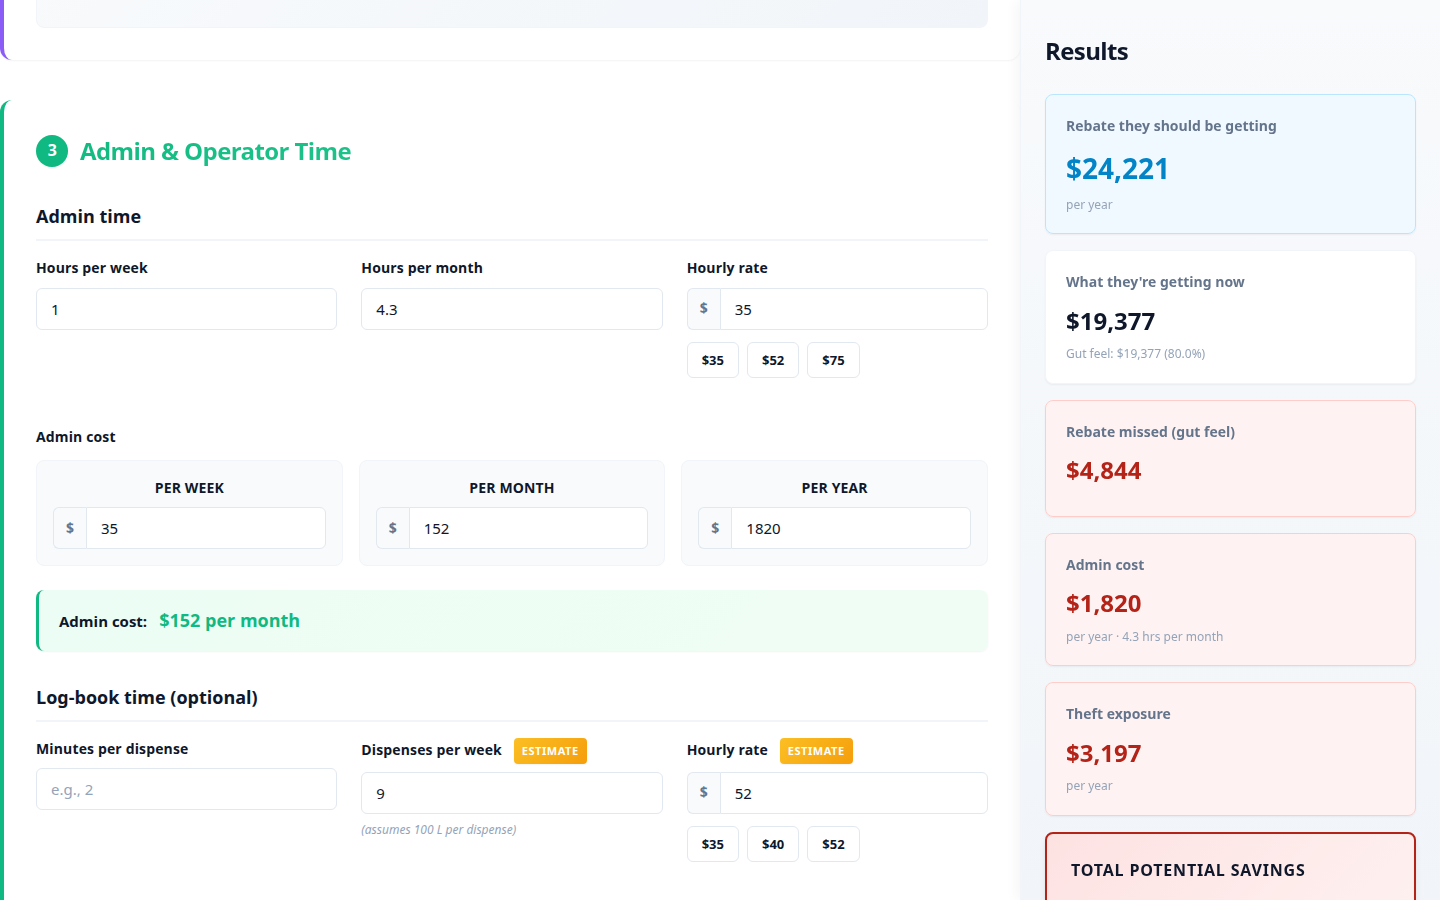
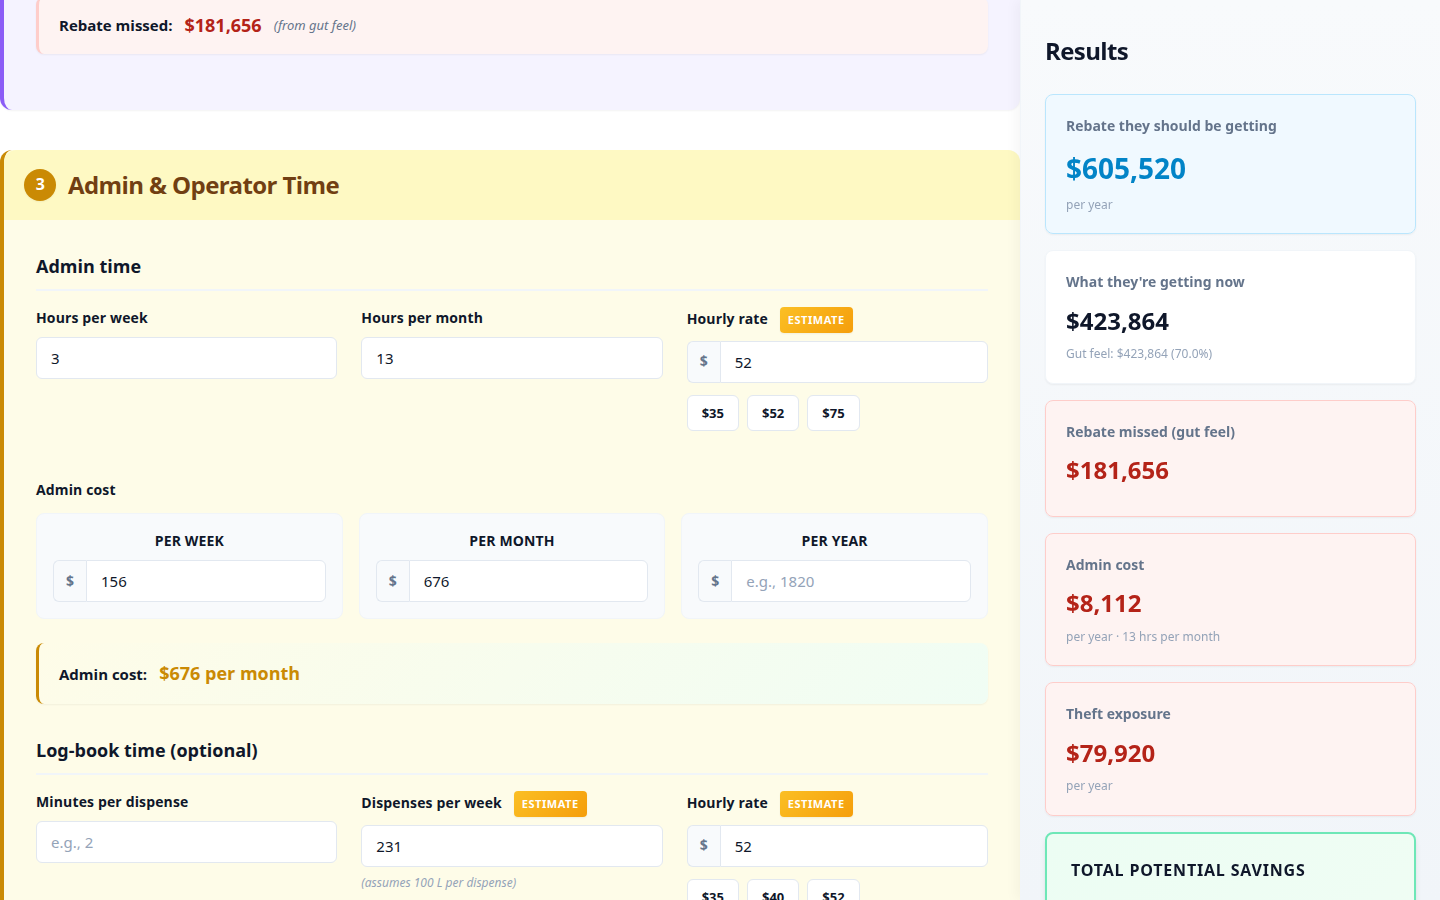
Fix rebate missed display and thousands separators on linked fields (v1.2.7)
Critical bug fixes:

Bug 1: Rebate missed line not showing
- Fixed calculateRebateMissed() calls to include correct 3-parameter signature
- Was calling: calculateRebateMissed(rebate, state.actualDollars)
- Now calling: calculateRebateMissed(rebate, 'dollars', state.actualDollars)
- Rebate missed now properly displays under 'Rebate they should be getting'
- Shows actual claim if filled, otherwise gut feel
- Labels source: '(from actual claim)' or '(from gut feel)'
- Renders in soft red (#B42318 on #FEF3F2)

Bug 2: Thousands separators missing on programmatically filled fields
- Added setFormattedValue(input, value) helper function
- Formats integer fields with commas when not focused
- If field is currently focused (user typing), shows raw digits
- Otherwise formats with commas via formatNumberInput()
- Applied to all linked field updates:
  * Fuel litres/dollars (week, month, year) - updateFuelFieldsFromAnnual()
  * Rebate claim dollars (from %) - actualPercent/gutfeelPercent handlers
  * Admin $ fields (week, month, year) - all three input handlers + updateAdminDollarsFromHours()
- Every integer field now shows commas whenever not focused, including
  when value is set by another field's linkage or by defaults

Code changes:
- app.js: Added setFormattedValue() helper before addThousandsSeparator()
- app.js: Replaced all programmatic .value = Math.round(...) with setFormattedValue()
- app.js: Fixed calculateRebateMissed() calls with correct parameters

Verification:
[…]

diff --git a/js/app.js b/js/app.js
@@ -58,6 +58,24 @@ const state = {
 };
 
 /**
+ * Format an integer input field value (add commas if not focused)
+ * @param {HTMLInputElement} input - The input element
+ * @param {number} value - The numeric value to set
+ */
+function setFormattedValue(input, value) {
+  if (value === null || value === undefined || value === '') {
+    input.value = '';
+    return;
+  }
+  // If the field is currently focused, don't format (user is typing)
+  if (document.activeElement === input) {
+    input.value = Math.round(value);
+  } else {
+    input.value = formatNumberInput(value);
+  }
+}
+
+/**
  * Add thousands separator formatting to an input field
  * @param {HTMLInputElement} input - The input element
  * @param {boolean} isInteger - Whether to format as integer (default true)
@@ -200,17 +218,17 @@ function updateFuelFieldsFromAnnual() {
   const litresWeek = convertFuelUsage(state.fuelLitresYear, 'year', 'week');
   const litresMonth = convertFuelUsage(state.fuelLitresYear, 'year', 'month');
   
-  document.getElementById('fuel-litres-week').value = Math.round(litresWeek);
-  document.getElementById('fuel-litres-month').value = Math.round(litresMonth);
-  document.getElementById('fuel-litres-year').value = Math.round(state.fuelLitresYear);
+  setFormattedValue(document.getElementById('fuel-litres-week'), Math.round(litresWeek));
+  setFormattedValue(document.getElementById('fuel-litres-month'), Math.round(litresMonth));
+  setFormattedValue(document.getElementById('fuel-litres-year'), Math.round(state.fuelLitresYear));
   
   const dollarsWeek = litresToDollars(litresWeek, state.dieselPrice);
   const dollarsMonth = litresToDollars(litresMonth, state.dieselPrice);
   const dollarsYear = litresToDollars(state.fuelLitresYear, state.dieselPrice);
   
-  document.getElementById('fuel-dollars-week').value = Math.round(dollarsWeek);
-  document.getElementById('fuel-dollars-month').value = Math.round(dollarsMonth);
-  document.getElementById('fuel-dollars-year').value = Math.round(dollarsYear);
+  setFormattedValue(document.getElementById('fuel-dollars-week'), Math.round(dollarsWeek));
+  setFormattedValue(document.getElementById('fuel-dollars-month'), Math.round(dollarsMonth));
+  setFormattedValue(document.getElementById('fuel-dollars-year'), Math.round(dollarsYear));
   
   // Update dispenses default if not modified by user
   if (!state.operatorDispensesModified && state.fuelLitresYear) {
@@ -284,7 +302,7 @@ function setupRebateFields() {
     if (value && state.fuelLitresYear && state.offRoadPercent !== null) {
       const rebateShouldGet = calculateRebateShouldGet(state.fuelLitresYear, state.offRoadPercent);
       state.actualDollars = (value / 100) * rebateShouldGet;
-      actualDollars.value = Math.round(state.actualDollars);
+      setFormattedValue(actualDollars, Math.round(state.actualDollars));
     }
     
     updateAllCalculations();
@@ -315,7 +333,7 @@ function setupRebateFields() {
     if (value && state.fuelLitresYear && state.offRoadPercent !== null) {
       const rebateShouldGet = calculateRebateShouldGet(state.fuelLitresYear, state.offRoadPercent);
       state.gutfeelDollars = (value / 100) * rebateShouldGet;
-      gutfeelDollars.value = Math.round(state.gutfeelDollars);
+      setFormattedValue(gutfeelDollars, Math.round(state.gutfeelDollars));
     }
     
     updateAllCalculations();
@@ -415,8 +433,8 @@ function setupAdminFields() {
       const dollarsYear = value * 52;
       
       // Update other $ fields
-      adminDollarsMonth.value = Math.round(dollarsYear / 12);
-      adminDollarsYear.value = Math.round(dollarsYear);
+      setFormattedValue(adminDollarsMonth, Math.round(dollarsYear / 12));
+      setFormattedValue(adminDollarsYear, Math.round(dollarsYear));
       
       // Back-calculate hours from rate
       if (state.adminRate > 0) {
@@ -441,8 +459,8 @@ function setupAdminFields() {
       const dollarsYear = value * 12;
       
       // Update other $ fields
-      adminDollarsWeek.value = Math.round(dollarsYear / 52);
-      adminDollarsYear.value = Math.round(dollarsYear);
+      setFormattedValue(adminDollarsWeek, Math.round(dollarsYear / 52));
+      setFormattedValue(adminDollarsYear, Math.round(dollarsYear));
       
       // Back-calculate hours from rate
       if (state.adminRate > 0) {
@@ -467,8 +485,8 @@ function setupAdminFields() {
       const dollarsYear = value;
       
       // Update other $ fields
-      adminDollarsWeek.value = Math.round(dollarsYear / 52);
-      adminDollarsMonth.value = Math.round(dollarsYear / 12);
+      setFormattedValue(adminDollarsWeek, Math.round(dollarsYear / 52));
+      setFormattedValue(adminDollarsMonth, Math.round(dollarsYear / 12));
       
       // Back-calculate hours from rate
       if (state.adminRate > 0) {
@@ -494,9 +512,9 @@ function updateAdminDollarsFromHours() {
   const dollarsWeek = dollarsYear / 52;
   const dollarsMonth = dollarsYear / 12;
   
-  document.getElementById('admin-dollars-week').value = Math.round(dollarsWeek);
-  document.getElementById('admin-dollars-month').value = Math.round(dollarsMonth);
-  document.getElementById('admin-dollars-year').value = Math.round(dollarsYear);
+  setFormattedValue(document.getElementById('admin-dollars-week'), Math.round(dollarsWeek));
+  setFormattedValue(document.getElementById('admin-dollars-month'), Math.round(dollarsMonth));
+  setFormattedValue(document.getElementById('admin-dollars-year'), Math.round(dollarsYear));
 }
 
 // Operator fields
@@ -584,14 +602,14 @@ function updateSectionResults() {
     let missedSource = '';
     
     if (state.actualDollars) {
-      rebateMissed = calculateRebateMissed(rebate, state.actualDollars);
+      rebateMissed = calculateRebateMissed(rebate, 'dollars', state.actualDollars);
       missedSource = '(from actual claim)';
     } else if (state.gutfeelDollars) {
-      rebateMissed = calculateRebateMissed(rebate, state.gutfeelDollars);
+      rebateMissed = calculateRebateMissed(rebate, 'dollars', state.gutfeelDollars);
       missedSource = '(from gut feel)';
     }
     
-    if (rebateMissed > 0) {
+    if (rebateMissed > 0 && (state.actualDollars || state.gutfeelDollars)) {
       rebateMissedLine.style.display = 'flex';
       rebateMissedValue.textContent = formatCurrency(rebateMissed);
       rebateMissedSource.textContent = missedSource;

diff --git a/CHANGELOG.md b/CHANGELOG.md
@@ -2,6 +2,29 @@
 
 All notable changes to Fuel Numbers will be documented in this file.
 
+## [1.2.7] - 2026-11-18
+
+### Fixed - Critical Display Bugs
+- **Bug 1: Rebate missed line not displaying**
+  - Fixed calculateRebateMissed() calls to include correct parameters ('dollars' mode)
+  - Rebate missed now properly shows under "Rebate they should be getting"
+  - Displays with actual claim if filled, otherwise gut feel
+  - Shows source label and renders in soft red
+- **Bug 2: Thousands separators missing on linked fields**
+  - Added setFormattedValue() helper to format programmatically filled fields
+  - All linked fields now show commas when not focused:
+    * Fuel litres/dollars fields (week, month, year)
+    * Rebate claim dollars (calculated from %)
+    * Admin $ fields (week, month, year)
+  - Only the field being actively typed shows raw digits
+  - Formatting applies after blur, linking updates, and on page load
+
+### Testing
+- All 7 test cases pass
+- Verified in browser with large numbers (1,200,000 L/yr)
+- Confirmed rebate missed displays correctly
+- Confirmed all linked fields show thousands separators
+
 ## [1.2.6] - 2026-11-18
 
 ### Added - Rebate Missed Display & Thousands Separators
